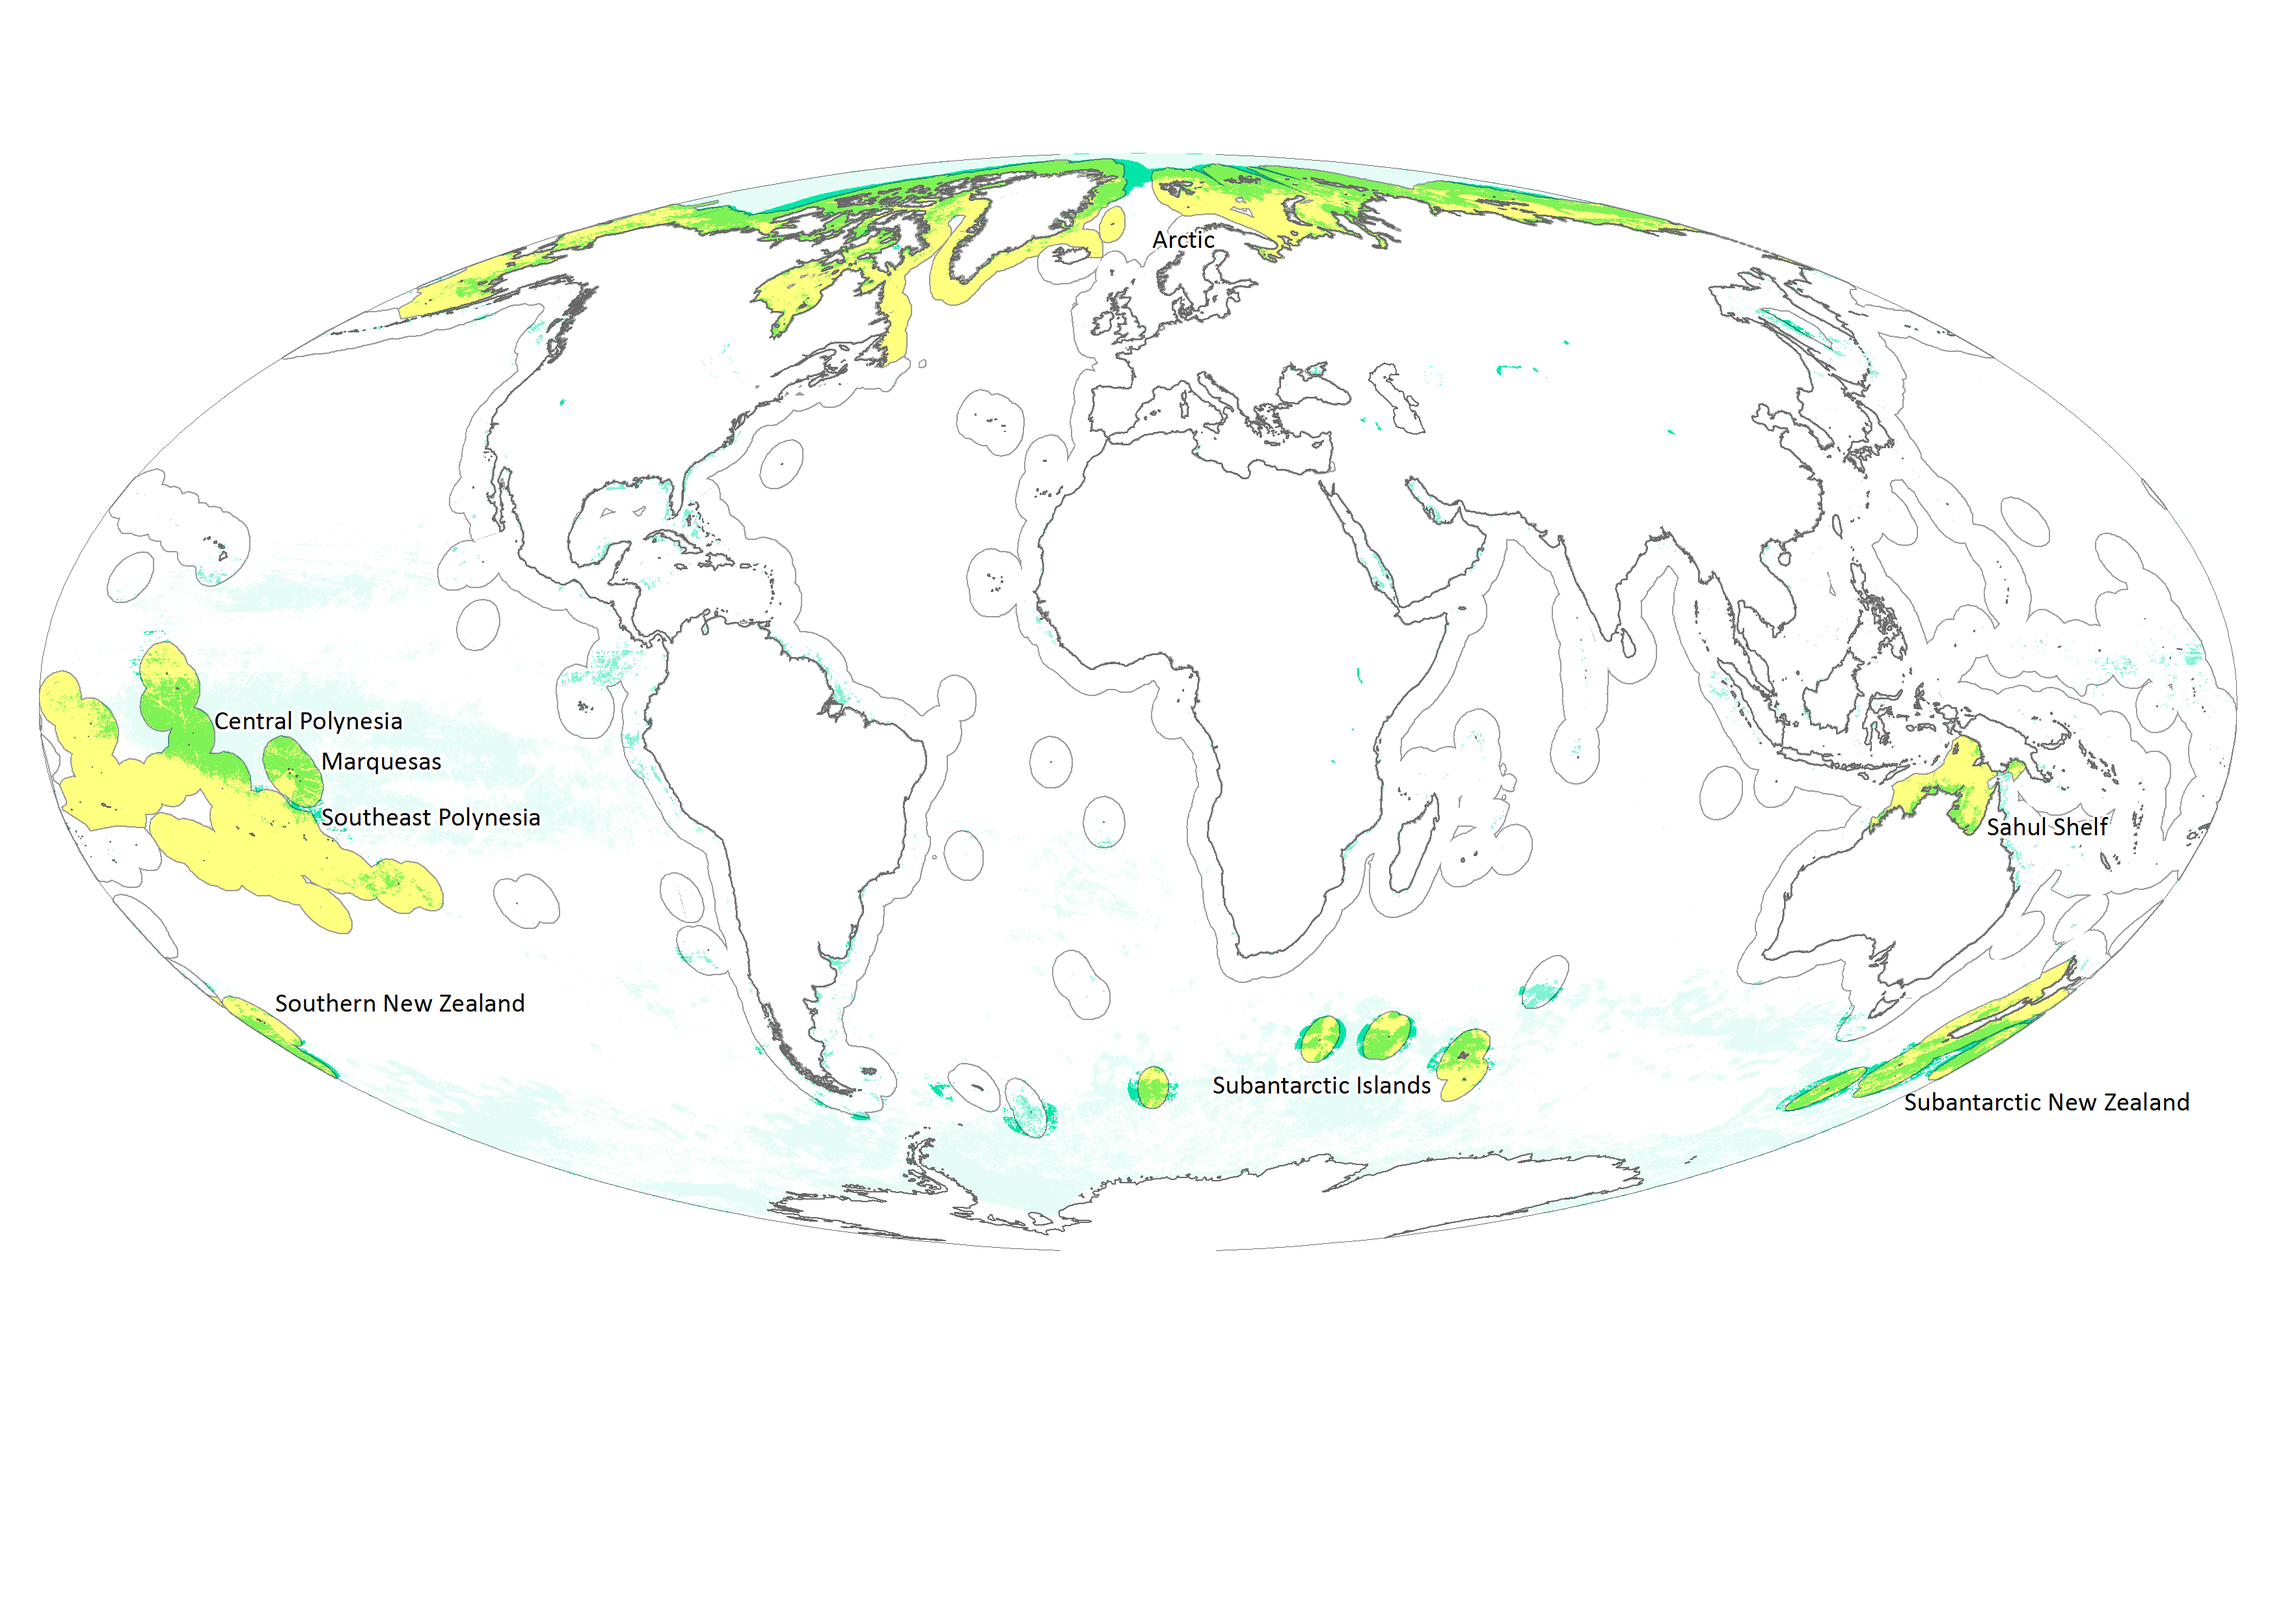
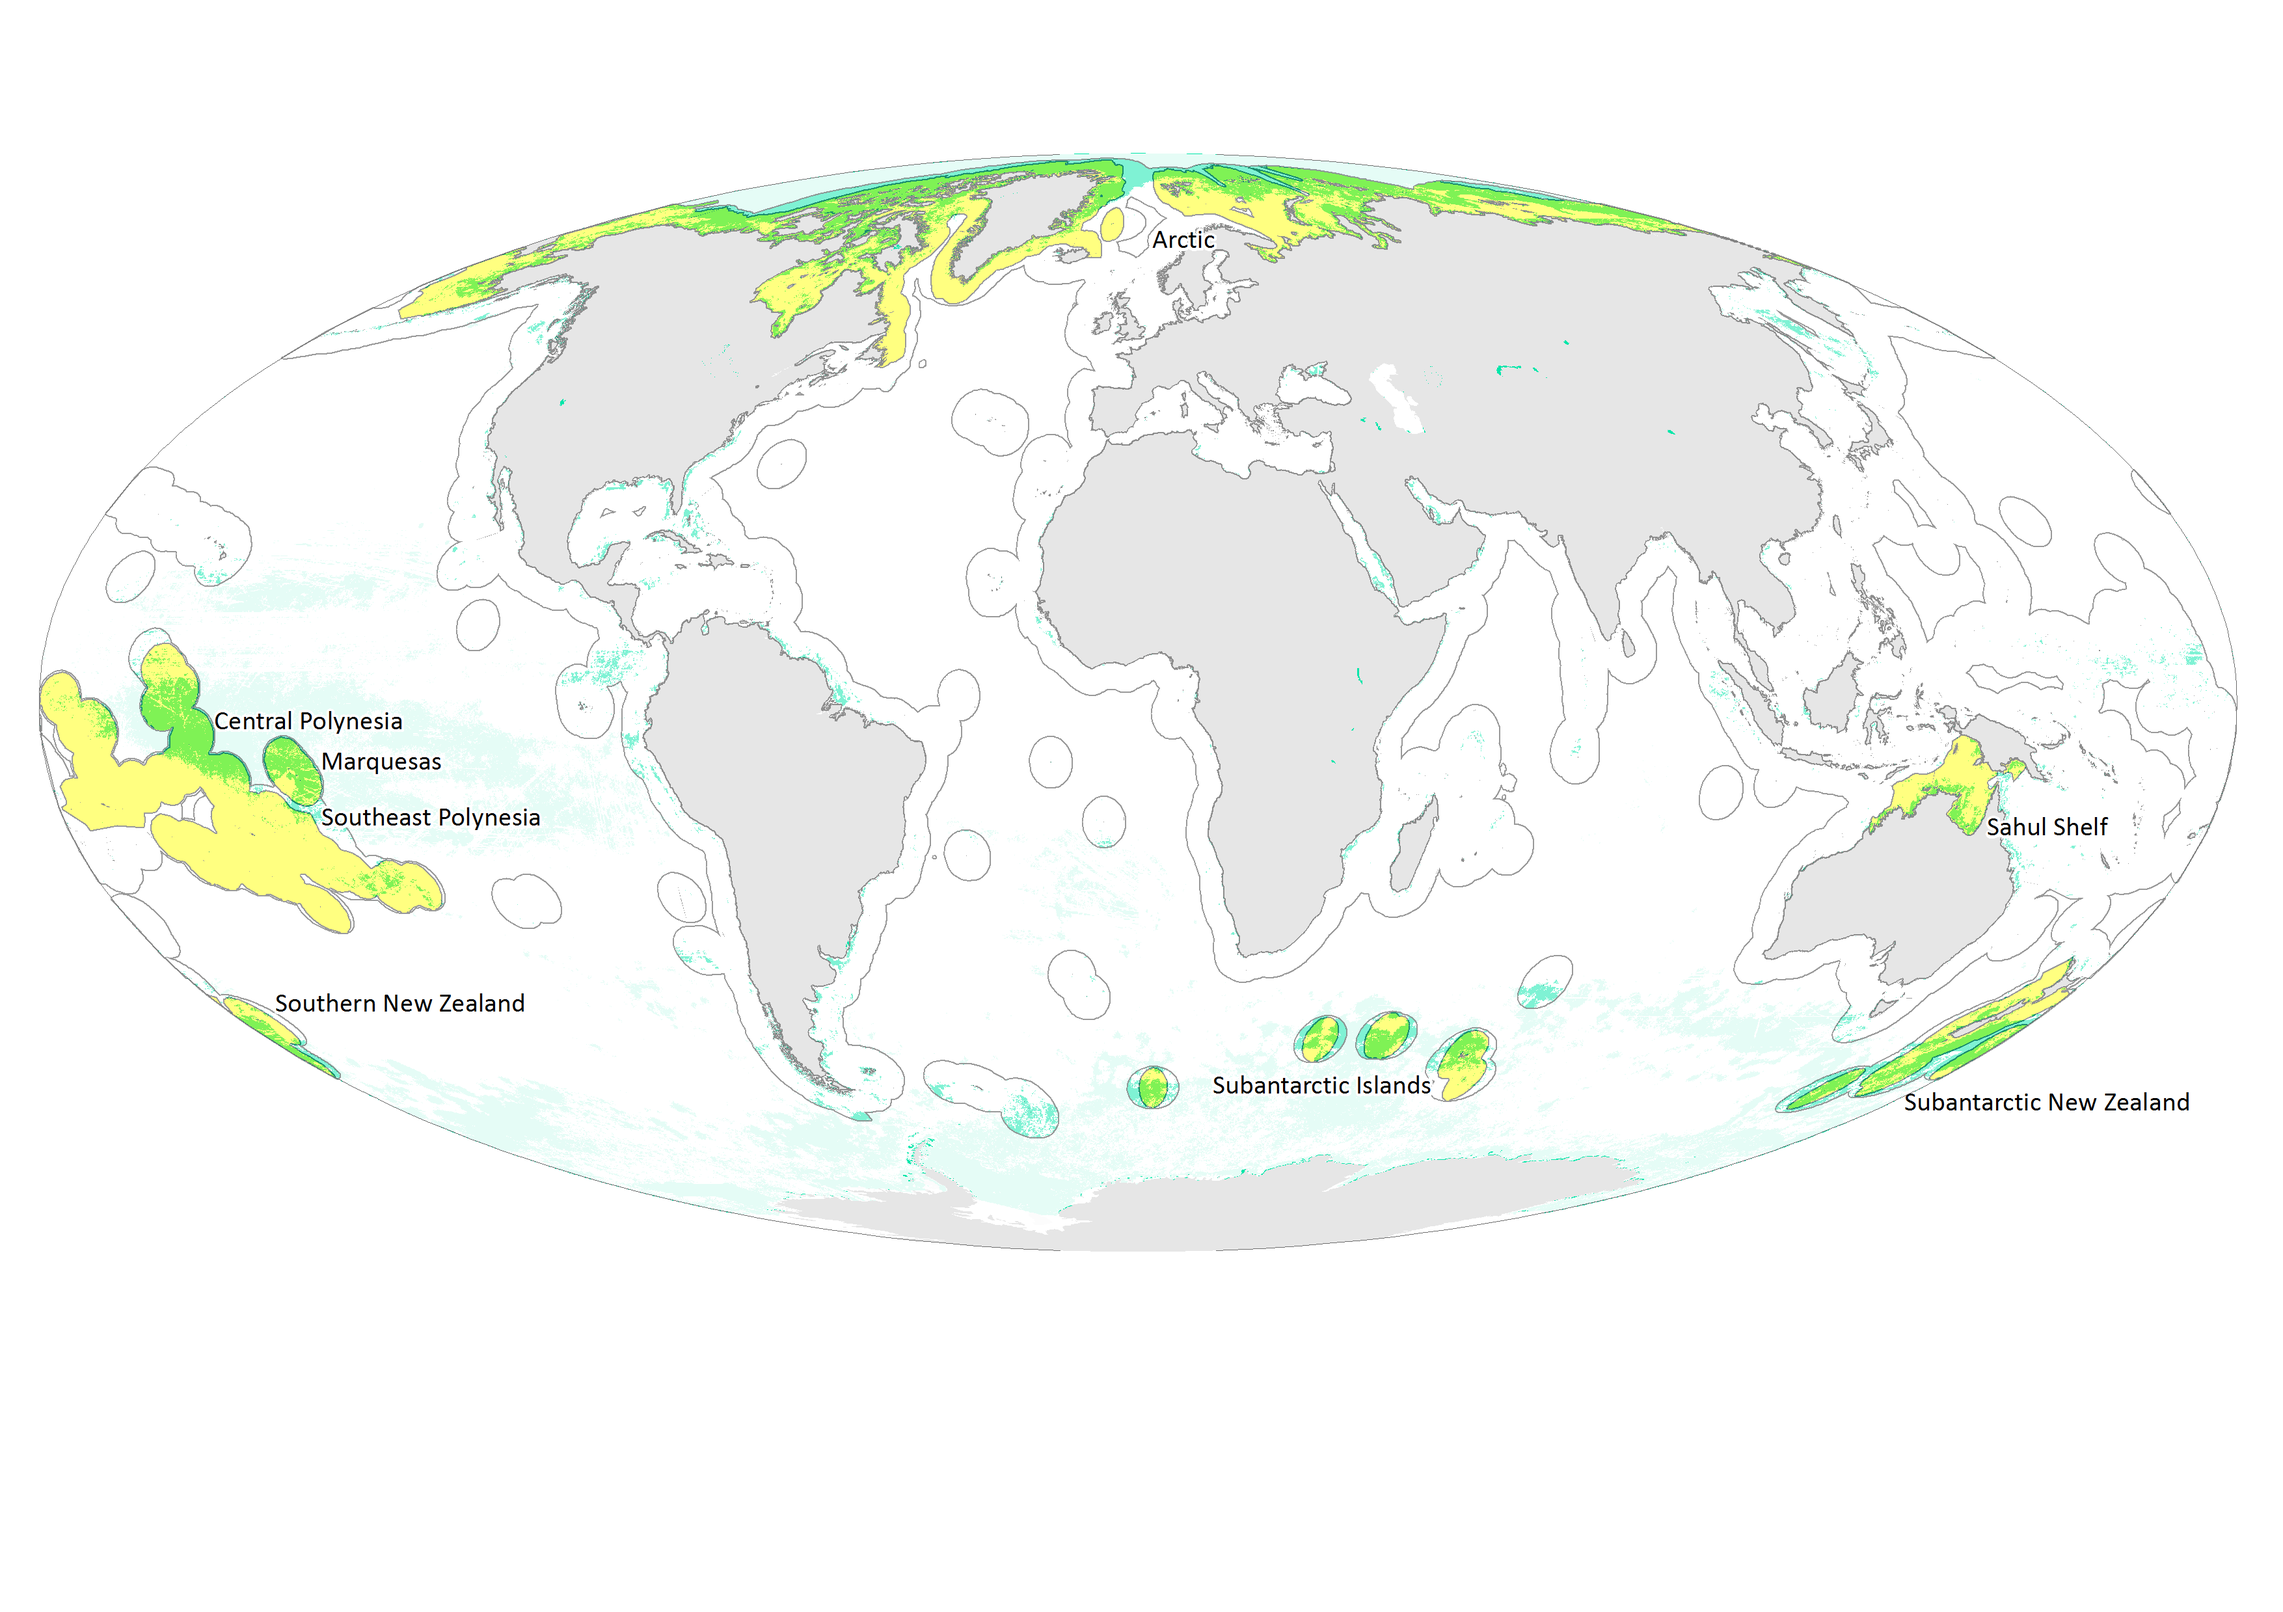
new maps for draft2

diff --git a/md/report.md b/md/report.md
@@ -36,11 +36,11 @@ Step by step analysis is included in the [detailed methodology notebook](./wilde
 
 ---
 
-#  Text for marine WH wilderness analysis
+# Draft text for marine WH wilderness analysis
 
 ## Classification of the marine environment
 
-It is necessary for our purpose to apply a classification scheme to the marine environment so that its wilderness values can be systematically examined and its wilderness gaps identified. To this end, we chose the Marine Ecoregion of the World (MEOW), providing a useful framework on near-shore, continental waters (up to 200m depth); and the Pelagic Provinces of the World, for waters beyond 200m depth up to the limit of EEZ (up to 200 nautical miles) ([Spalding et al 2007, 2012](#)). The cut-off of pelagic waters is to align with the definition that the Convention does not apply to the large majority of oceans beyond national jurisdiction. We used the level of provinces that have been used in the previous IUCN marine WH thematic study ([Abudulla et al 2013](#)) as they are deemed of appropriate scale for the identification and prioritisation of broad gaps globally. 
+It is necessary for our purpose to apply a classification scheme to the marine environment so that its wilderness values can be systematically examined to identify wilderness gaps. To this end, we compiled a combined layer of the Marine Ecoregion of the World (MEOW), providing a useful framework on near-shore, continental waters (up to 200m depth); and the Pelagic Provinces of the World, for waters beyond 200m depth up to the limit of Exclusive Economic Zones (EEZs, up to 200 nautical miles) ([Spalding et al 2007, 2012](#)). We aligned the  outer limit with EEZ as the Convention does not apply to the large majority of area beyond national jurisdiction (ABNJ) - a compromise between the continuity of marine biogeography and the political boundary. We used the unit of provinces that have been used in the previous IUCN marine WH thematic study ([Abudulla et al 2013](#)) as they are deemed of appropriate scale for the identification and prioritisation of broad gaps globally. 
 
 ## Current distribution of wilderness within marine provinces
 
@@ -48,13 +48,17 @@ It is necessary for our purpose to apply a classification scheme to the marine e
 
 The [cumulative marine pressure](http://www.nature.com/ncomms/2015/150714/ncomms8615/full/ncomms8615.html) data (hereafter referred to as *the Marine Pressure Data* unless otherwise specified) was used as the aggregated indicator, a proxy for wilderness in the marine environment. It summarises impacts to global oceans based on a set of 19 factors up to 2013, including fishing, climate change, land-based stressors. This layer represents the best globally consistent marine cumulative pressure at a high resolution of 1 $km^2$.
 
-We chose the 10 percentile value of the Marine Pressure Data for all marine areas within EEZ as the threshold to a definition of marine wilderness. This empirical threshold was developed by comparing other candidate values at 1, 3, 5, 10 percentiles, and was decided for its quality to highlight existing marine wilderness areas, in accordance with expert knowledge.
+We chose the 10 percentile value of the Marine Pressure Data for all marine areas within EEZ as the threshold to defining marine wilderness. This empirical threshold was developed by comparing other candidate values at 1, 3, 5, 10 percentiles, and was decided for its quality to highlight existing marine wilderness areas, in accordance with expert knowledge.
 
-The distribution of marine wilderness is uneven and reflects different combined cumulative pressures across all marine provinces. We find large variations between provinces with little disturbed waters and those subject to intensive human influence. The distribution can be found in the below map.
+The resulting global distribution of marine wilderness is uneven and reflects different combined cumulative pressures across all marine provinces. We find large variations between provinces with little disturbed waters and those subject to intensive human influence. The distribution can be found in the below map.
+
+*Map: distribution of marine cumulative pressures and the boundary of ABNJ. Green areas represents marine wilderness according to the threshold*
 
 ![map: overall dist marine pressure](mm_overall_dist.png)
 
 Most notably, due to difficulties in navigation as a result of multi-year ice, the Arctic region remains largely intact with largest marine wilderness, covering a total of 5.4 million $km^2$ and also represents one of the highest percentage coverage (46.8%) in all marine provinces. This includes 3.3 million $km^2$ of waters within the near-shore Arctic province, which accounts for almost half (47.9%) of the entire marine province, and more than 2 million $km^2$ beyond the continental shelf and within the EEZ boundary, i.e., 58.9% of its pelagic province, making it the largest contiguous waters with a significant wilderness coverage. 
+
+*Map: marine wilderness in the Arctic region*
 
 ![map: polar map focusing on Arctic](mm_dist_polar.png)
 
@@ -68,13 +72,19 @@ The same can be observed for Subantarctic New Zealand region, where large pelagi
 
 Notably, measuring a wilderness area of 288,274 $km^2$ (21.9%) within its continental shelf, Sahul Shelf is second largest to the Arctic region in terms of near-shore wilderness.
 
+*Map: marine provinces with significant wilderness areas*
+
 ![map:highlight regions/meow of high wildernss](mm_highlight_overlap.png)
 
 ## Marine wilderness inside marine World Heritage sites
 
-As can be seen in the analysis (see [map](#) below), 33 of 47 marine WH sites, contain, to varying degrees, marine wilderness areas inside their designated boundaries. This indicates some element of the wilderness value have been accepted and reflected by the Convention already, albeit implicitly. It also highlights the fact vast wilderness areas locate beyond the current distribution of marine WH sites that may host potential OUVs. 
+As can be seen in the analysis (see [map](#) below), 36 of 47 marine WH sites, contain, to varying degrees, marine wilderness areas inside their designated boundaries. This indicates some element of the wilderness value have been accepted and reflected by the Convention already, albeit implicitly. It also highlights the fact vast wilderness areas locate beyond the current distribution of marine WH sites that may host potential OUVs. 
+
+*Map: overlay of marine World Heritage sites and marine wilderness areas*
 
 ![map:wh overlay marine pressure](mm_wh_overlap.png) 
+
+[legenditem: WH legend keys](#)
 
 For example, the Great Barrier Reef, off the east coast of Australia, has overall the largest marine wilderness area in all natural WH sites (78,310 $km^2$, 22.7% of its total marine area). Phoenix Islands Protected Area, the largest WH site in the world, covers a considerable 23,432 $km^2$ of wilderness areas in the pelagic province of Central Polynesia. Overall, ten natural WH sites contain more than 1,000 $km^2$ wilderness area inside their boundaries, out of 33 sites that overlap with marine wilderness area, according to the spatial analysis.
 
@@ -94,15 +104,13 @@ The remaining 32 provinces, including Marquesas, Sahul Shelf, and Southeast Poly
 
 However, numbers alone is a rather poor indicator as it fails to take into consideration the actual overlap of wilderness area within each province. In contrast, having a WH in a province does not automatically suggest its wilderness area in that marine region has been captured. As we have identified, in some of the provinces, marine WH sites cover very little wilderness area. For example, Tropical East Pacific, though having four WH sites, has a small combined coverage of 0.5%. Arctic has one WH site (Natural System of Wrangle Island), but it makes less than 0.01% of its total wilderness areas. On the other end of the spectrum, some WH sites may cover entire provinces, for instance, sites in the West Central Australian Shelf and the Northeast Australian Shelf (97.4% and 82.1% respectively).
 
-Map: number of WH containing wilderness area in each province
+*Map: number of WH containing wilderness area in each province*
 
 ![map: highlight of gap provinces](mm_gap_num.png)
 
-Map: wilderness area in WH as percentage of total wilderness area in each province
+*Map: wilderness area in WH as percentage of total wilderness area in each province*
 
 ![map: highlight of gap provinces](mm_gap_per.png)
-
-
 
 It is important to note that, OUV remains the key criteria for inscribing a site to the WH List. A gap identified in this approach can provide useful insight and guidance in the search of potential wilderness sites of OUV, it does not qualify a nomination from the gap province without scrutinies at a more appropriate scale and rigorous comparative analysis.
 
@@ -119,8 +127,3 @@ Nevertheless, with these shortcomings in mind, our analysis offers a useful fram
 Alternatively, to compensate for deficiencies in using global datasets and in the use of proxy of wilderness, it is important that an expert driven approach be used in conjunction that can emphasize and target specific, relevant attributes of wilderness values.
 
 The results and gaps identified here remain indicative at a global scale and should not be interpreted as recommendations for future nominations.
-
-
-![dist-map](dist_EEZ.png)
-THe overlay of existing marine World Heritage sites and marine wilderness areas. It seems quite apparent that large part of the existing wilderness is not covered...
-![dist-map-wh](dist_eez_wh.png)
